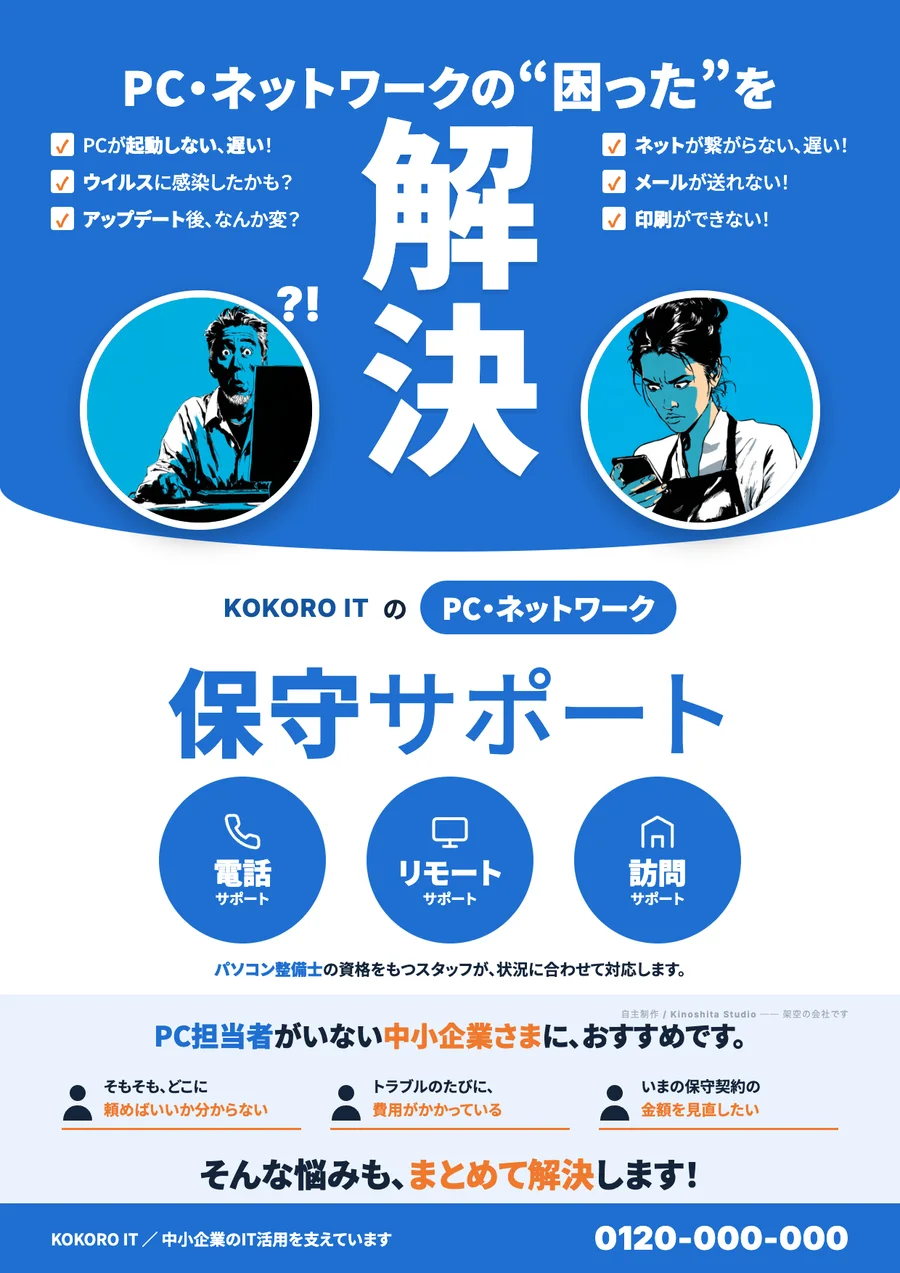
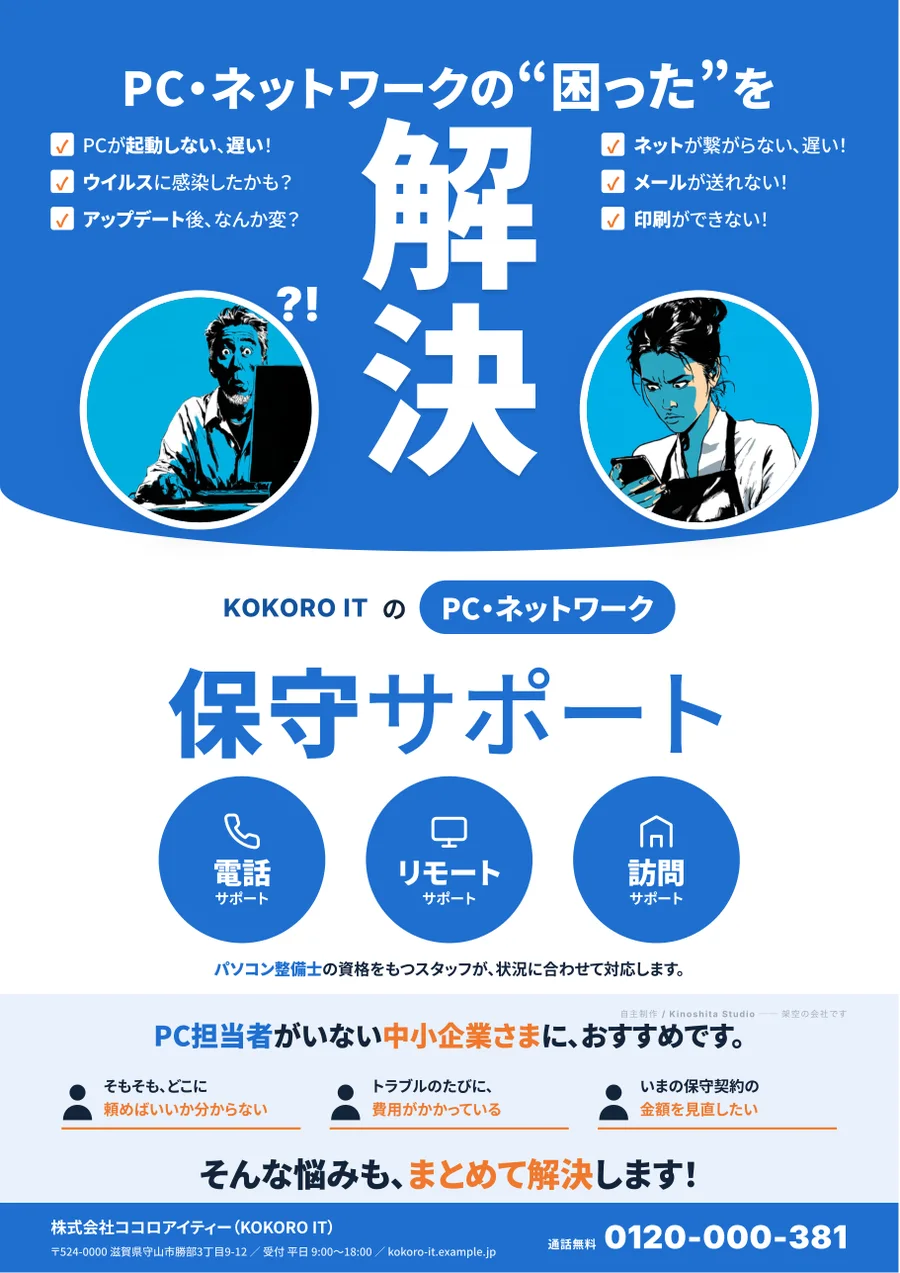
sample flyers: fill in plausible (fictional) addresses, phones, hours and sites
000 exchanges and example.jp domains, so nothing points at a real business.

Claude-Session: https://claude.ai/code/session_01T22wKR2yvNL7pqGT1C5yET

diff --git a/_flyer-it.html b/_flyer-it.html
@@ -59,7 +59,9 @@
   .who .all{ text-align:center; margin-top:26px; font-size:46px; font-weight:900 }
   .who .all em{ font-style:normal; color:var(--org) }
 
-  .foot{ position:absolute; left:0; right:0; bottom:0; height:96px; background:var(--blue); color:#fff; display:flex; align-items:center; justify-content:space-between; padding:0 70px; font-size:22px; font-weight:700 }
+  .foot{ position:absolute; left:0; right:0; bottom:0; height:96px; background:var(--blue); color:#fff; display:flex; align-items:center; justify-content:space-between; padding:0 70px; font-size:22px; font-weight:700; line-height:1.4 }
+  .foot .ad small{ font-size:15px; font-weight:500; opacity:.9 }
+  .foot .tel small{ font-size:16px; margin-right:10px; font-family:'Noto Sans JP'; font-weight:700 }
   .foot .tel{ font-family:'Inter',sans-serif; font-weight:900; font-size:44px; letter-spacing:.02em }
   .credit{ position:absolute; right:70px; top:1388px; font-family:'Inter',sans-serif; font-size:12px; letter-spacing:.12em; color:#9aa7b6 }
 </style>
@@ -106,7 +108,7 @@
     <div class="all">そんな悩みも、<em>まとめて解決</em>します！</div>
   </div>
   <div class="credit">自主制作 / Kinoshita Studio ── 架空の会社です</div>
-  <div class="foot"><span>KOKORO IT ／ 中小企業のIT活用を支えています</span><span class="tel">0120-000-000</span></div>
+  <div class="foot"><span class="ad">株式会社ココロアイティー（KOKORO IT）<br><small>〒524-0000 滋賀県守山市勝部3丁目9-12 ／ 受付 平日 9:00〜18:00 ／ kokoro-it.example.jp</small></span><span class="tel"><small>通話無料</small>0120-000-381</span></div>
 </div>
 
 </body>

diff --git a/_flyer-brand.html b/_flyer-brand.html
@@ -49,6 +49,8 @@
   .qr div{ text-align:center; font-family:'Inter',sans-serif; font-weight:800; font-size:12px; letter-spacing:.14em; color:var(--sub) }
   .qr b{ display:block; width:118px; height:118px; margin-top:8px; background:#fff; border-radius:6px; padding:8px }
   .qr svg{ width:100%; height:100%; display:block }
+  .corp{ position:absolute; left:84px; bottom:84px; z-index:3; font-size:16px; line-height:1.8; color:var(--sub); letter-spacing:.02em }
+  .tag{ top:1500px !important }
   .credit{ position:absolute; left:84px; bottom:44px; font-family:'Inter',sans-serif; font-size:13px; letter-spacing:.12em; color:rgba(255,255,255,.35) }
 </style>
 </head>
@@ -80,6 +82,7 @@
   <div class="tag">可能性を、湖の向こうへ。</div>
 
   <div class="qr"><div>SPECIAL SITE<b></b></div><div>BRAND MOVIE<b></b></div></div>
+  <div class="corp">株式会社レイクワークス　〒525-0000 滋賀県草津市西渋川1丁目4-8 レイクワークスビル<br>TEL 077-000-8800　lakeworks.example.jp</div>
   <div class="credit">自主制作 / Kinoshita Studio ── 架空の会社です</div>
 </div>
 

diff --git a/_flyer-seminar.html b/_flyer-seminar.html
@@ -136,7 +136,9 @@
     <p class="apply">お申込は<br>こちらから<span>締切 11月18日（水）正午</span></p>
     <div class="bar"></div>
     <p class="who"><b>主催：びわこ経営サポート協議会</b><br>
-      お問い合わせ 077-000-0000（平日 9:00〜18:00）／ teichaku@biwako-keiei.example.jp</p>
+      〒520-0000 滋賀県大津市浜大津2丁目1-35 びわこビル4F<br>
+      TEL 077-000-4120（平日 9:00〜18:00）／ teichaku@biwako-keiei.example.jp<br>
+      申込フォーム biwako-keiei.example.jp/seminar</p>
     <div class="free">参加<br>無料</div>
   </div>
 </div>

diff --git a/_flyer-saiyo.html b/_flyer-saiyo.html
@@ -135,8 +135,8 @@
 
   <div class="foot">
     <p class="line">見学だけでも大丈夫です。まずはお電話ください。</p>
-    <p class="tel">077-000-0000</p>
-    <p class="addr">湖東鉄工所　採用係<br>滋賀県東近江市 五個荘1-2-3</p>
+    <p class="tel">0748-00-5531</p>
+    <p class="addr">株式会社 湖東鉄工所　採用係（担当：山本）<br>〒529-0000 滋賀県東近江市五個荘竜田町1-2-3<br>受付 平日 8:30〜17:00 ／ recruit@koto-tekko.example.jp</p>
   </div>
 </div>
 
